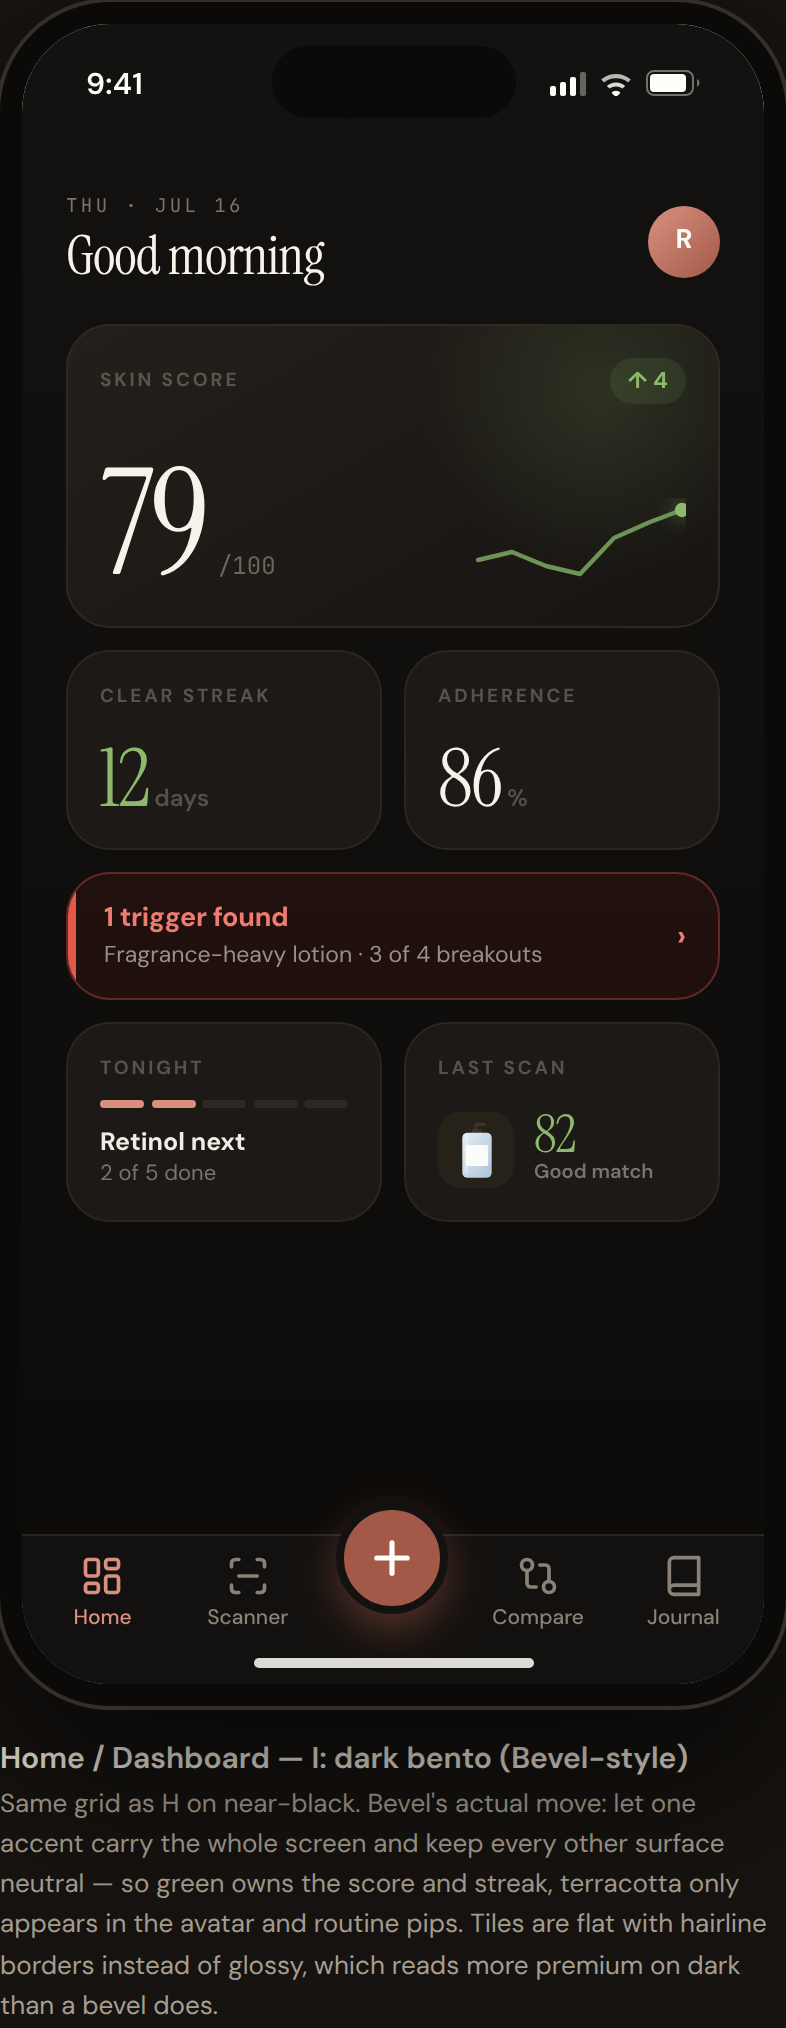
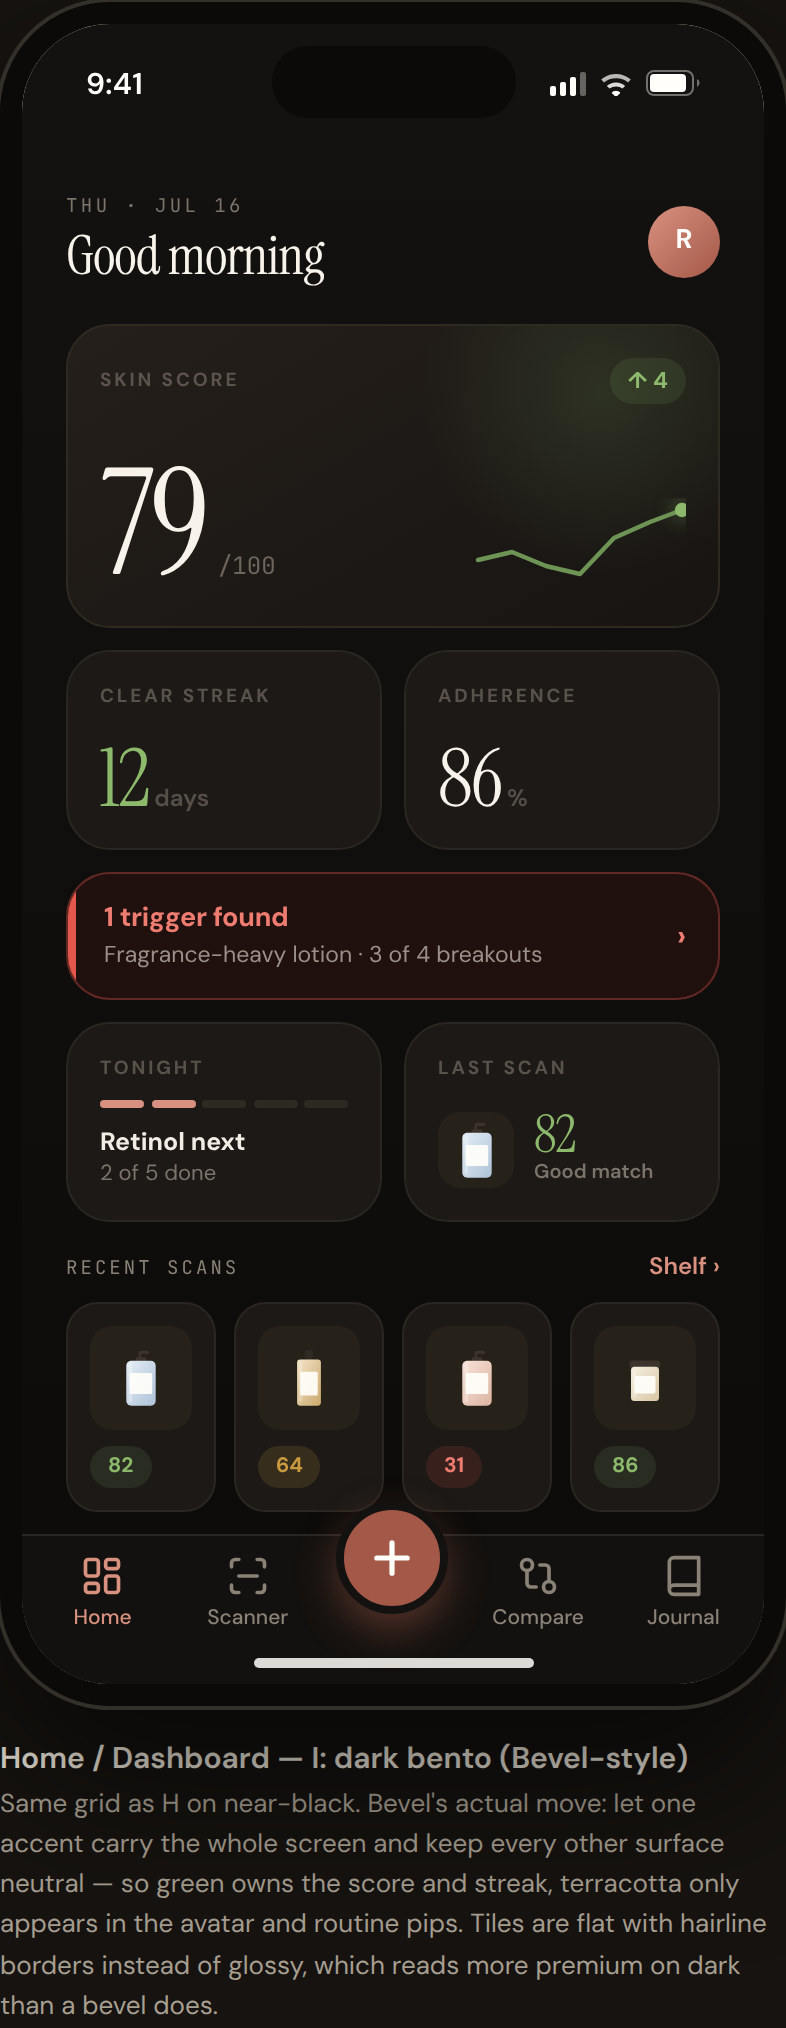
design: fill the dead space above the nav across the dashboard variants
Most variants bottomed out well short of the tab bar, leaving 200-300px
of empty cream. Filled it with content that earns the space rather than
padding, matched to each variant's own language:

- C, D, E, I, J, O — a recent-scans strip (four product thumbs with
  verdict chips, dark-styled on D and I). Reuses the product symbols
  already in the spec.
- K — "Recent answers" list instead, since Perplexity-style homes surface
  past threads, not inventory.
- L — two more products in the grid. A shelf that shows four items when
  the header claims 24 reads broken; six fills the viewport and implies
  scroll.
- N — quick actions row (Log tonight / Scan / Compare), because the card
  stack already carries all the status.

Left alone: A, B, F, G, H, M already reached the nav.

Claude-Session: https://claude.ai/code/session_01AkAuqDzDW3ukTT2ccywdb4

diff --git a/designs/skintel-ios-designs.html b/designs/skintel-ios-designs.html
@@ -702,7 +702,30 @@ body.freeze .anim-ring{animation-delay:-1.1s;animation-play-state:paused}
             <div style="flex:1;font-size:12.5px;font-weight:600">1 trigger found — fragrance-heavy lotion</div>
             <span style="color:var(--bad-fg);font-weight:700;font-size:12px">›</span>
           </div>
-        </div>
+        
+          <div style="display:flex;align-items:baseline;justify-content:space-between;margin-top:20px">
+            <span class="mono" style="font-size:9.5px;letter-spacing:.16em;text-transform:uppercase;color:var(--muted)">Recent scans</span>
+            <span style="font-size:12px;color:var(--primary);font-weight:600">Shelf ›</span>
+          </div>
+          <div style="display:flex;gap:9px;margin-top:10px">
+            <div class="card" style="flex:1;padding:11px;display:flex;flex-direction:column;gap:8px;align-items:flex-start">
+              <div class="pthumb" style="width:100%;height:52px;border-radius:11px"><svg class="prod" width="21" height="30" viewBox="0 0 60 84"><use href="#pPump"/></svg></div>
+              <span class="chip good" style="font-size:10.5px">82</span>
+            </div>
+            <div class="card" style="flex:1;padding:11px;display:flex;flex-direction:column;gap:8px;align-items:flex-start">
+              <div class="pthumb" style="width:100%;height:52px;border-radius:11px"><svg class="prod amber" width="21" height="30" viewBox="0 0 60 84"><use href="#pDrop"/></svg></div>
+              <span class="chip unsure" style="font-size:10.5px">64</span>
+            </div>
+            <div class="card" style="flex:1;padding:11px;display:flex;flex-direction:column;gap:8px;align-items:flex-start">
+              <div class="pthumb" style="width:100%;height:52px;border-radius:11px"><svg class="prod rose" width="21" height="30" viewBox="0 0 60 84"><use href="#pPump"/></svg></div>
+              <span class="chip bad" style="font-size:10.5px">31</span>
+            </div>
+            <div class="card" style="flex:1;padding:11px;display:flex;flex-direction:column;gap:8px;align-items:flex-start">
+              <div class="pthumb" style="width:100%;height:52px;border-radius:11px"><svg class="prod cream" width="21" height="30" viewBox="0 0 60 84"><use href="#pJar"/></svg></div>
+              <span class="chip good" style="font-size:10.5px">86</span>
+            </div>
+          </div>
+</div>
         <div class="bnav" data-active="home"></div>
         <div class="homebar"></div>
       </div></div>
@@ -763,7 +786,30 @@ body.freeze .anim-ring{animation-delay:-1.1s;animation-play-state:paused}
             <div style="flex:1;font-size:12.5px;font-weight:600;color:#F2EDE4">1 trigger found — fragrance-heavy lotion</div>
             <span style="color:#E4574B;font-weight:700">›</span>
           </div>
-        </div>
+        
+          <div style="display:flex;align-items:baseline;justify-content:space-between;margin-top:22px">
+            <span class="mono" style="font-size:9.5px;letter-spacing:.16em;text-transform:uppercase;color:#8A8177">Recent scans</span>
+            <span style="font-size:12px;color:#D9917F;font-weight:600">Shelf ›</span>
+          </div>
+          <div style="display:flex;gap:9px;margin-top:10px">
+            <div style="flex:1;background:#1C1916;border:1px solid #2A2621;border-radius:16px;padding:11px;display:flex;flex-direction:column;gap:8px;align-items:flex-start">
+              <div style="width:100%;height:52px;border-radius:11px;background:#262119;display:flex;align-items:center;justify-content:center"><svg class="prod " width="21" height="30" viewBox="0 0 60 84"><use href="#pPump"/></svg></div>
+              <span style="font-size:10.5px;font-weight:700;padding:4px 9px;border-radius:99px;background:rgba(110,148,85,.16);color:#8CB96B">82</span>
+            </div>
+            <div style="flex:1;background:#1C1916;border:1px solid #2A2621;border-radius:16px;padding:11px;display:flex;flex-direction:column;gap:8px;align-items:flex-start">
+              <div style="width:100%;height:52px;border-radius:11px;background:#262119;display:flex;align-items:center;justify-content:center"><svg class="prod amber" width="21" height="30" viewBox="0 0 60 84"><use href="#pDrop"/></svg></div>
+              <span style="font-size:10.5px;font-weight:700;padding:4px 9px;border-radius:99px;background:rgba(201,154,63,.16);color:#C99A3F">64</span>
+            </div>
+            <div style="flex:1;background:#1C1916;border:1px solid #2A2621;border-radius:16px;padding:11px;display:flex;flex-direction:column;gap:8px;align-items:flex-start">
+              <div style="width:100%;height:52px;border-radius:11px;background:#262119;display:flex;align-items:center;justify-content:center"><svg class="prod rose" width="21" height="30" viewBox="0 0 60 84"><use href="#pPump"/></svg></div>
+              <span style="font-size:10.5px;font-weight:700;padding:4px 9px;border-radius:99px;background:rgba(228,87,75,.14);color:#EE7C71">31</span>
+            </div>
+            <div style="flex:1;background:#1C1916;border:1px solid #2A2621;border-radius:16px;padding:11px;display:flex;flex-direction:column;gap:8px;align-items:flex-start">
+              <div style="width:100%;height:52px;border-radius:11px;background:#262119;display:flex;align-items:center;justify-content:center"><svg class="prod cream" width="21" height="30" viewBox="0 0 60 84"><use href="#pJar"/></svg></div>
+              <span style="font-size:10.5px;font-weight:700;padding:4px 9px;border-radius:99px;background:rgba(110,148,85,.16);color:#8CB96B">86</span>
+            </div>
+          </div>
+</div>
         <div class="bnav" data-active="home" style="background:rgba(20,18,16,.94);border-color:#2A2621"></div>
         <div class="homebar light"></div>
       </div></div>
@@ -823,7 +869,30 @@ body.freeze .anim-ring{animation-delay:-1.1s;animation-play-state:paused}
             </div>
             <span style="color:var(--muted)">›</span>
           </div>
-        </div>
+        
+          <div style="display:flex;align-items:baseline;justify-content:space-between;margin-top:24px">
+            <span class="mono" style="font-size:9.5px;letter-spacing:.16em;text-transform:uppercase;color:var(--muted)">Recent scans</span>
+            <span style="font-size:12px;color:var(--primary);font-weight:600">Shelf ›</span>
+          </div>
+          <div style="display:flex;gap:9px;margin-top:10px">
+            <div class="card" style="flex:1;padding:11px;display:flex;flex-direction:column;gap:8px;align-items:flex-start">
+              <div class="pthumb" style="width:100%;height:52px;border-radius:11px"><svg class="prod" width="21" height="30" viewBox="0 0 60 84"><use href="#pPump"/></svg></div>
+              <span class="chip good" style="font-size:10.5px">82</span>
+            </div>
+            <div class="card" style="flex:1;padding:11px;display:flex;flex-direction:column;gap:8px;align-items:flex-start">
+              <div class="pthumb" style="width:100%;height:52px;border-radius:11px"><svg class="prod amber" width="21" height="30" viewBox="0 0 60 84"><use href="#pDrop"/></svg></div>
+              <span class="chip unsure" style="font-size:10.5px">64</span>
+            </div>
+            <div class="card" style="flex:1;padding:11px;display:flex;flex-direction:column;gap:8px;align-items:flex-start">
+              <div class="pthumb" style="width:100%;height:52px;border-radius:11px"><svg class="prod rose" width="21" height="30" viewBox="0 0 60 84"><use href="#pPump"/></svg></div>
+              <span class="chip bad" style="font-size:10.5px">31</span>
+            </div>
+            <div class="card" style="flex:1;padding:11px;display:flex;flex-direction:column;gap:8px;align-items:flex-start">
+              <div class="pthumb" style="width:100%;height:52px;border-radius:11px"><svg class="prod cream" width="21" height="30" viewBox="0 0 60 84"><use href="#pJar"/></svg></div>
+              <span class="chip good" style="font-size:10.5px">86</span>
+            </div>
+          </div>
+</div>
         <div class="bnav" data-active="home"></div>
         <div class="homebar"></div>
       </div></div>
@@ -1164,7 +1233,30 @@ body.freeze .anim-ring{animation-delay:-1.1s;animation-play-state:paused}
               </div>
             </div>
           </div>
-        </div>
+        
+          <div style="display:flex;align-items:baseline;justify-content:space-between;margin-top:14px">
+            <span class="mono" style="font-size:9.5px;letter-spacing:.16em;text-transform:uppercase;color:#8A8177">Recent scans</span>
+            <span style="font-size:12px;color:#D9917F;font-weight:600">Shelf ›</span>
+          </div>
+          <div style="display:flex;gap:9px;margin-top:10px">
+            <div style="flex:1;background:#1C1916;border:1px solid #2A2621;border-radius:16px;padding:11px;display:flex;flex-direction:column;gap:8px;align-items:flex-start">
+              <div style="width:100%;height:52px;border-radius:11px;background:#262119;display:flex;align-items:center;justify-content:center"><svg class="prod " width="21" height="30" viewBox="0 0 60 84"><use href="#pPump"/></svg></div>
+              <span style="font-size:10.5px;font-weight:700;padding:4px 9px;border-radius:99px;background:rgba(110,148,85,.16);color:#8CB96B">82</span>
+            </div>
+            <div style="flex:1;background:#1C1916;border:1px solid #2A2621;border-radius:16px;padding:11px;display:flex;flex-direction:column;gap:8px;align-items:flex-start">
+              <div style="width:100%;height:52px;border-radius:11px;background:#262119;display:flex;align-items:center;justify-content:center"><svg class="prod amber" width="21" height="30" viewBox="0 0 60 84"><use href="#pDrop"/></svg></div>
+              <span style="font-size:10.5px;font-weight:700;padding:4px 9px;border-radius:99px;background:rgba(201,154,63,.16);color:#C99A3F">64</span>
+            </div>
+            <div style="flex:1;background:#1C1916;border:1px solid #2A2621;border-radius:16px;padding:11px;display:flex;flex-direction:column;gap:8px;align-items:flex-start">
+              <div style="width:100%;height:52px;border-radius:11px;background:#262119;display:flex;align-items:center;justify-content:center"><svg class="prod rose" width="21" height="30" viewBox="0 0 60 84"><use href="#pPump"/></svg></div>
+              <span style="font-size:10.5px;font-weight:700;padding:4px 9px;border-radius:99px;background:rgba(228,87,75,.14);color:#EE7C71">31</span>
+            </div>
+            <div style="flex:1;background:#1C1916;border:1px solid #2A2621;border-radius:16px;padding:11px;display:flex;flex-direction:column;gap:8px;align-items:flex-start">
+              <div style="width:100%;height:52px;border-radius:11px;background:#262119;display:flex;align-items:center;justify-content:center"><svg class="prod cream" width="21" height="30" viewBox="0 0 60 84"><use href="#pJar"/></svg></div>
+              <span style="font-size:10.5px;font-weight:700;padding:4px 9px;border-radius:99px;background:rgba(110,148,85,.16);color:#8CB96B">86</span>
+            </div>
+          </div>
+</div>
         <div class="bnav" data-active="home" style="background:rgba(20,18,16,.94);border-color:#2A2621"></div>
         <div class="homebar light"></div>
       </div></div>
@@ -1234,7 +1326,30 @@ body.freeze .anim-ring{animation-delay:-1.1s;animation-play-state:paused}
               <div style="font-size:13.5px;font-weight:700;letter-spacing:-.005em">Retinol 0.5% is next</div>
             </div>
           </div>
-        </div>
+        
+          <div style="display:flex;align-items:baseline;justify-content:space-between;margin-top:14px">
+            <span class="mono" style="font-size:9.5px;letter-spacing:.16em;text-transform:uppercase;color:var(--muted)">Recent scans</span>
+            <span style="font-size:12px;color:var(--primary);font-weight:600">Shelf ›</span>
+          </div>
+          <div style="display:flex;gap:9px;margin-top:10px">
+            <div class="card" style="flex:1;padding:11px;display:flex;flex-direction:column;gap:8px;align-items:flex-start">
+              <div class="pthumb" style="width:100%;height:52px;border-radius:11px"><svg class="prod" width="21" height="30" viewBox="0 0 60 84"><use href="#pPump"/></svg></div>
+              <span class="chip good" style="font-size:10.5px">82</span>
+            </div>
+            <div class="card" style="flex:1;padding:11px;display:flex;flex-direction:column;gap:8px;align-items:flex-start">
+              <div class="pthumb" style="width:100%;height:52px;border-radius:11px"><svg class="prod amber" width="21" height="30" viewBox="0 0 60 84"><use href="#pDrop"/></svg></div>
+              <span class="chip unsure" style="font-size:10.5px">64</span>
+            </div>
+            <div class="card" style="flex:1;padding:11px;display:flex;flex-direction:column;gap:8px;align-items:flex-start">
+              <div class="pthumb" style="width:100%;height:52px;border-radius:11px"><svg class="prod rose" width="21" height="30" viewBox="0 0 60 84"><use href="#pPump"/></svg></div>
+              <span class="chip bad" style="font-size:10.5px">31</span>
+            </div>
+            <div class="card" style="flex:1;padding:11px;display:flex;flex-direction:column;gap:8px;align-items:flex-start">
+              <div class="pthumb" style="width:100%;height:52px;border-radius:11px"><svg class="prod cream" width="21" height="30" viewBox="0 0 60 84"><use href="#pJar"/></svg></div>
+              <span class="chip good" style="font-size:10.5px">86</span>
+            </div>
+          </div>
+</div>
         <div class="bnav" data-active="home"></div>
         <div class="homebar"></div>
       </div></div>
@@ -1289,7 +1404,26 @@ body.freeze .anim-ring{animation-delay:-1.1s;animation-play-state:paused}
               <span style="color:var(--bad-fg);font-weight:700">›</span>
             </div>
           </div>
-        </div>
+        
+          <div class="mono" style="font-size:9.5px;letter-spacing:.16em;text-transform:uppercase;color:var(--muted);margin:24px 0 9px">Recent answers</div>
+          <div class="card">
+            <div style="padding:13px 15px;display:flex;align-items:center;gap:11px;border-bottom:1px solid var(--line)">
+              <svg width="15" height="15" viewBox="0 0 100 100" style="color:var(--primary);flex:none"><use href="#star"/></svg>
+              <div style="flex:1;font-size:13px;font-weight:600">Is niacinamide safe with my BHA?</div>
+              <span class="muted">›</span>
+            </div>
+            <div style="padding:13px 15px;display:flex;align-items:center;gap:11px;border-bottom:1px solid var(--line)">
+              <svg width="15" height="15" viewBox="0 0 100 100" style="color:var(--primary);flex:none"><use href="#star"/></svg>
+              <div style="flex:1;font-size:13px;font-weight:600">Cheaper dupe for my $34 serum</div>
+              <span class="muted">›</span>
+            </div>
+            <div style="padding:13px 15px;display:flex;align-items:center;gap:11px">
+              <svg width="15" height="15" viewBox="0 0 100 100" style="color:var(--primary);flex:none"><use href="#star"/></svg>
+              <div style="flex:1;font-size:13px;font-weight:600">Why is my chin breaking out?</div>
+              <span class="muted">›</span>
+            </div>
+          </div>
+</div>
         <div class="bnav" data-active="home"></div>
         <div class="homebar"></div>
       </div></div>
@@ -1364,6 +1498,27 @@ body.freeze .anim-ring{animation-delay:-1.1s;animation-play-state:paused}
               <div>
                 <div style="font-size:12.5px;font-weight:700;line-height:1.25">CeraVe Moisturizer</div>
                 <div style="font-size:10.5px;color:var(--muted);margin-top:2px">Moisturizer</div>
+              </div>
+            </div>
+
+            <div class="p">
+              <div style="display:flex;align-items:flex-start;justify-content:space-between">
+                <div class="pthumb" style="width:46px;height:60px;border-radius:11px"><svg class="prod glass" width="26" height="37" viewBox="0 0 60 84"><use href="#pTube"/></svg></div>
+                <span class="chip good" style="font-size:11px">78</span>
+              </div>
+              <div>
+                <div style="font-size:12.5px;font-weight:700;line-height:1.25">La Roche-Posay SPF 50</div>
+                <div style="font-size:10.5px;color:var(--muted);margin-top:2px">Sunscreen</div>
+              </div>
+            </div>
+            <div class="p">
+              <div style="display:flex;align-items:flex-start;justify-content:space-between">
+                <div class="pthumb" style="width:46px;height:60px;border-radius:11px"><svg class="prod cream" width="26" height="37" viewBox="0 0 60 84"><use href="#pDrop"/></svg></div>
+                <span class="chip unsure" style="font-size:11px">59</span>
+              </div>
+              <div>
+                <div style="font-size:12.5px;font-weight:700;line-height:1.25">Vitamin C 15% serum</div>
+                <div style="font-size:10.5px;color:var(--muted);margin-top:2px">Treatment</div>
               </div>
             </div>
           </div>
@@ -1510,7 +1665,22 @@ body.freeze .anim-ring{animation-delay:-1.1s;animation-play-state:paused}
           <div style="text-align:center;margin-top:18px" class="mono">
             <span style="font-size:10px;letter-spacing:.14em;text-transform:uppercase;color:var(--muted)">Swipe a card to expand</span>
           </div>
-        </div>
+        
+          <div style="display:flex;gap:9px;margin-top:16px">
+            <div class="card" style="flex:1;padding:13px;display:flex;flex-direction:column;align-items:center;gap:7px">
+              <svg width="19" height="19" viewBox="0 0 24 24" fill="none" stroke="#A35848" stroke-width="2" stroke-linecap="round"><rect x="3" y="3" width="18" height="18" rx="3"/><path d="M7 8h10M7 12h10M7 16h6"/></svg>
+              <span style="font-size:11.5px;font-weight:600">Log tonight</span>
+            </div>
+            <div class="card" style="flex:1;padding:13px;display:flex;flex-direction:column;align-items:center;gap:7px">
+              <svg width="19" height="19" viewBox="0 0 24 24" fill="none" stroke="#A35848" stroke-width="2" stroke-linecap="round"><path d="M4 7V5a1 1 0 0 1 1-1h2M20 7V5a1 1 0 0 0-1-1h-2M4 17v2a1 1 0 0 0 1 1h2M20 17v2a1 1 0 0 1-1 1h-2"/><path d="M8 12h8"/></svg>
+              <span style="font-size:11.5px;font-weight:600">Scan</span>
+            </div>
+            <div class="card" style="flex:1;padding:13px;display:flex;flex-direction:column;align-items:center;gap:7px">
+              <svg width="19" height="19" viewBox="0 0 24 24" fill="none" stroke="#A35848" stroke-width="2" stroke-linecap="round"><path d="M6 3v12a3 3 0 0 0 3 3h9"/><circle cx="6" cy="18" r="2"/><circle cx="18" cy="6" r="2"/></svg>
+              <span style="font-size:11.5px;font-weight:600">Compare</span>
+            </div>
+          </div>
+</div>
         <div class="bnav" data-active="home"></div>
         <div class="homebar"></div>
       </div></div>
@@ -1570,7 +1740,30 @@ body.freeze .anim-ring{animation-delay:-1.1s;animation-play-state:paused}
               <span class="mono" style="font-size:12px;color:var(--bad-fg);font-weight:600">−5</span>
             </div>
           </div>
-        </div>
+        
+          <div style="display:flex;align-items:baseline;justify-content:space-between;margin-top:20px">
+            <span class="mono" style="font-size:9.5px;letter-spacing:.16em;text-transform:uppercase;color:var(--muted)">Recent scans</span>
+            <span style="font-size:12px;color:var(--primary);font-weight:600">Shelf ›</span>
+          </div>
+          <div style="display:flex;gap:9px;margin-top:10px">
+            <div class="card" style="flex:1;padding:11px;display:flex;flex-direction:column;gap:8px;align-items:flex-start">
+              <div class="pthumb" style="width:100%;height:52px;border-radius:11px"><svg class="prod" width="21" height="30" viewBox="0 0 60 84"><use href="#pPump"/></svg></div>
+              <span class="chip good" style="font-size:10.5px">82</span>
+            </div>
+            <div class="card" style="flex:1;padding:11px;display:flex;flex-direction:column;gap:8px;align-items:flex-start">
+              <div class="pthumb" style="width:100%;height:52px;border-radius:11px"><svg class="prod amber" width="21" height="30" viewBox="0 0 60 84"><use href="#pDrop"/></svg></div>
+              <span class="chip unsure" style="font-size:10.5px">64</span>
+            </div>
+            <div class="card" style="flex:1;padding:11px;display:flex;flex-direction:column;gap:8px;align-items:flex-start">
+              <div class="pthumb" style="width:100%;height:52px;border-radius:11px"><svg class="prod rose" width="21" height="30" viewBox="0 0 60 84"><use href="#pPump"/></svg></div>
+              <span class="chip bad" style="font-size:10.5px">31</span>
+            </div>
+            <div class="card" style="flex:1;padding:11px;display:flex;flex-direction:column;gap:8px;align-items:flex-start">
+              <div class="pthumb" style="width:100%;height:52px;border-radius:11px"><svg class="prod cream" width="21" height="30" viewBox="0 0 60 84"><use href="#pJar"/></svg></div>
+              <span class="chip good" style="font-size:10.5px">86</span>
+            </div>
+          </div>
+</div>
         <div class="bnav" data-active="home"></div>
         <div class="homebar"></div>
       </div></div>
